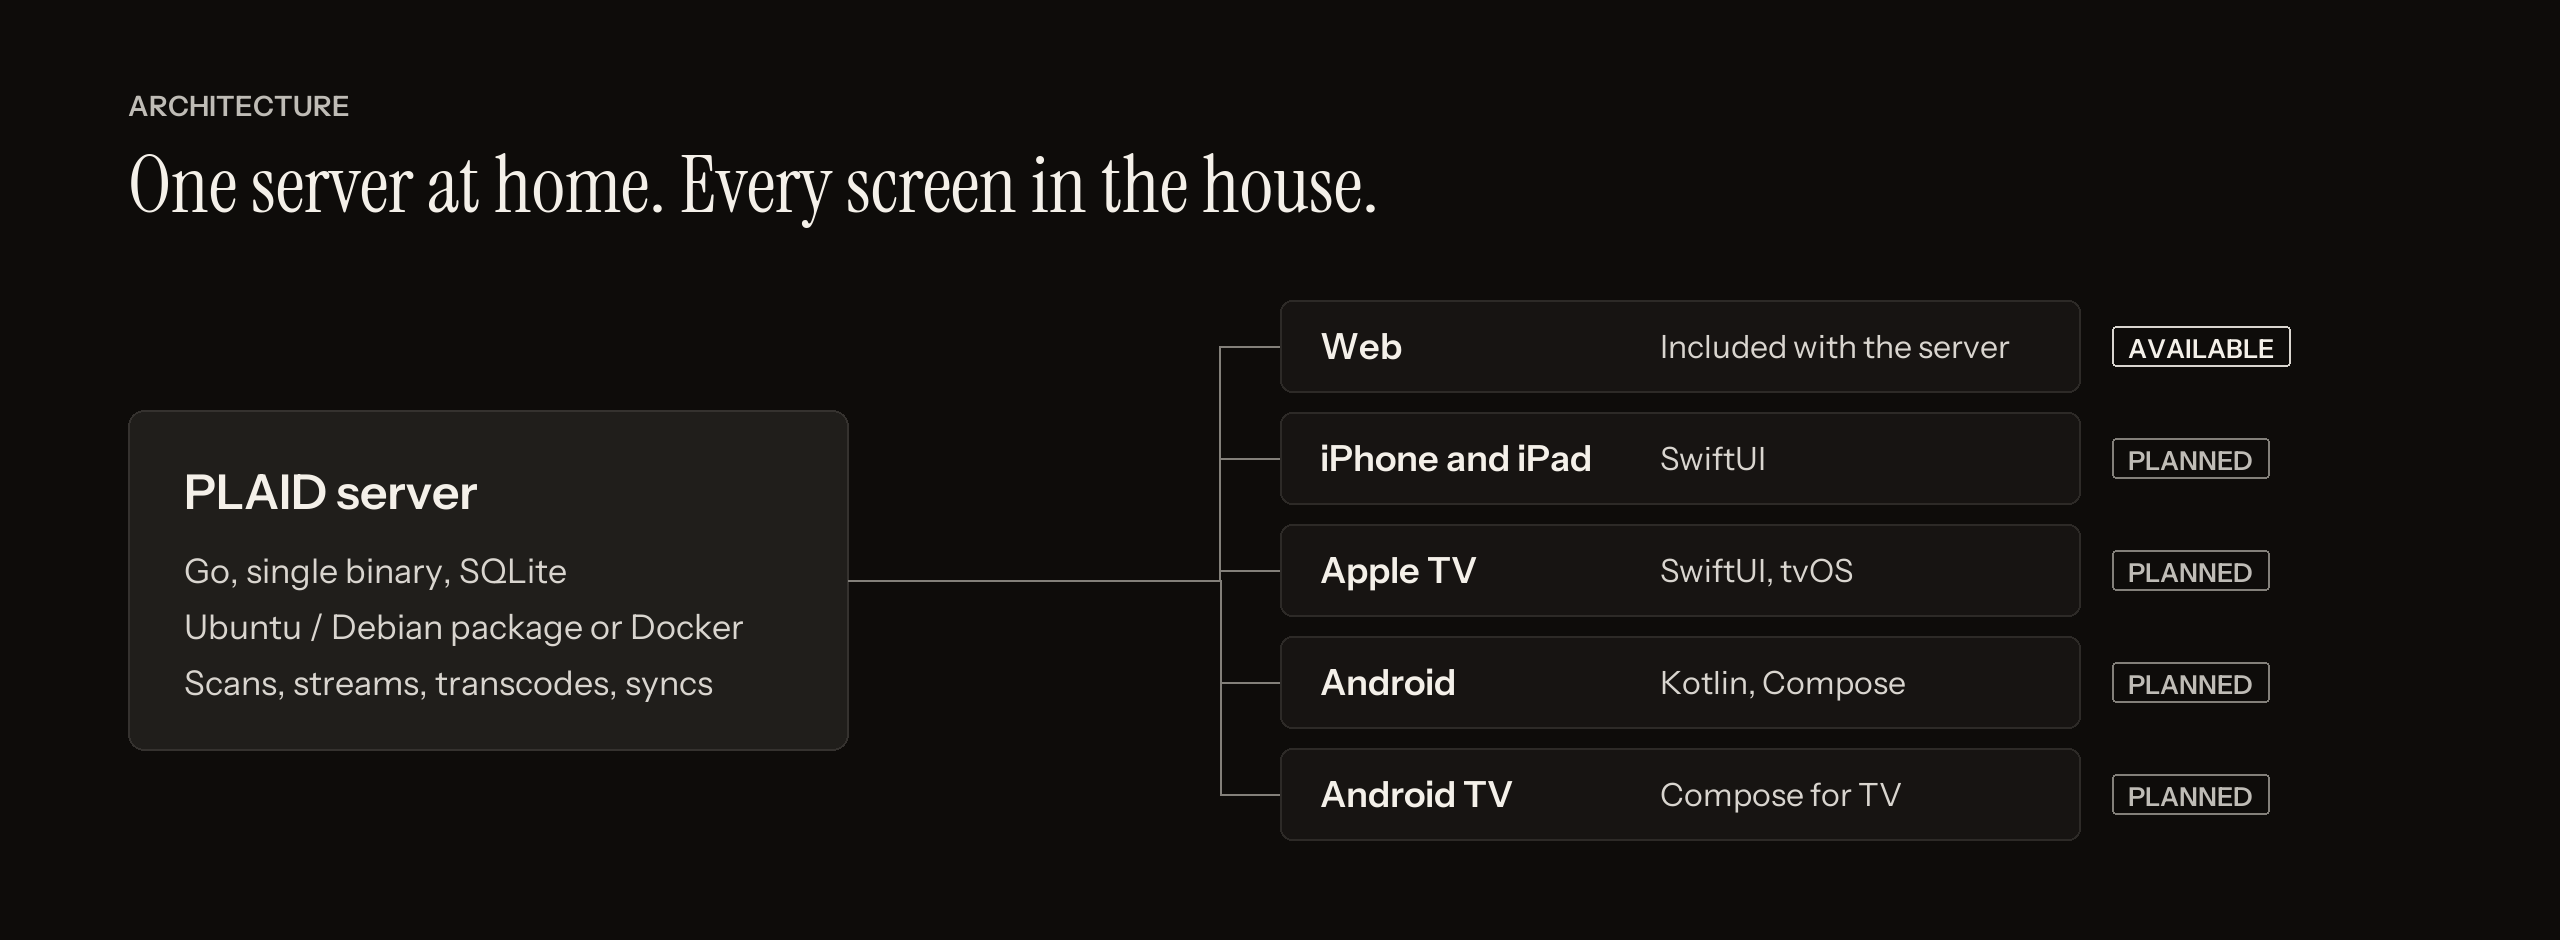
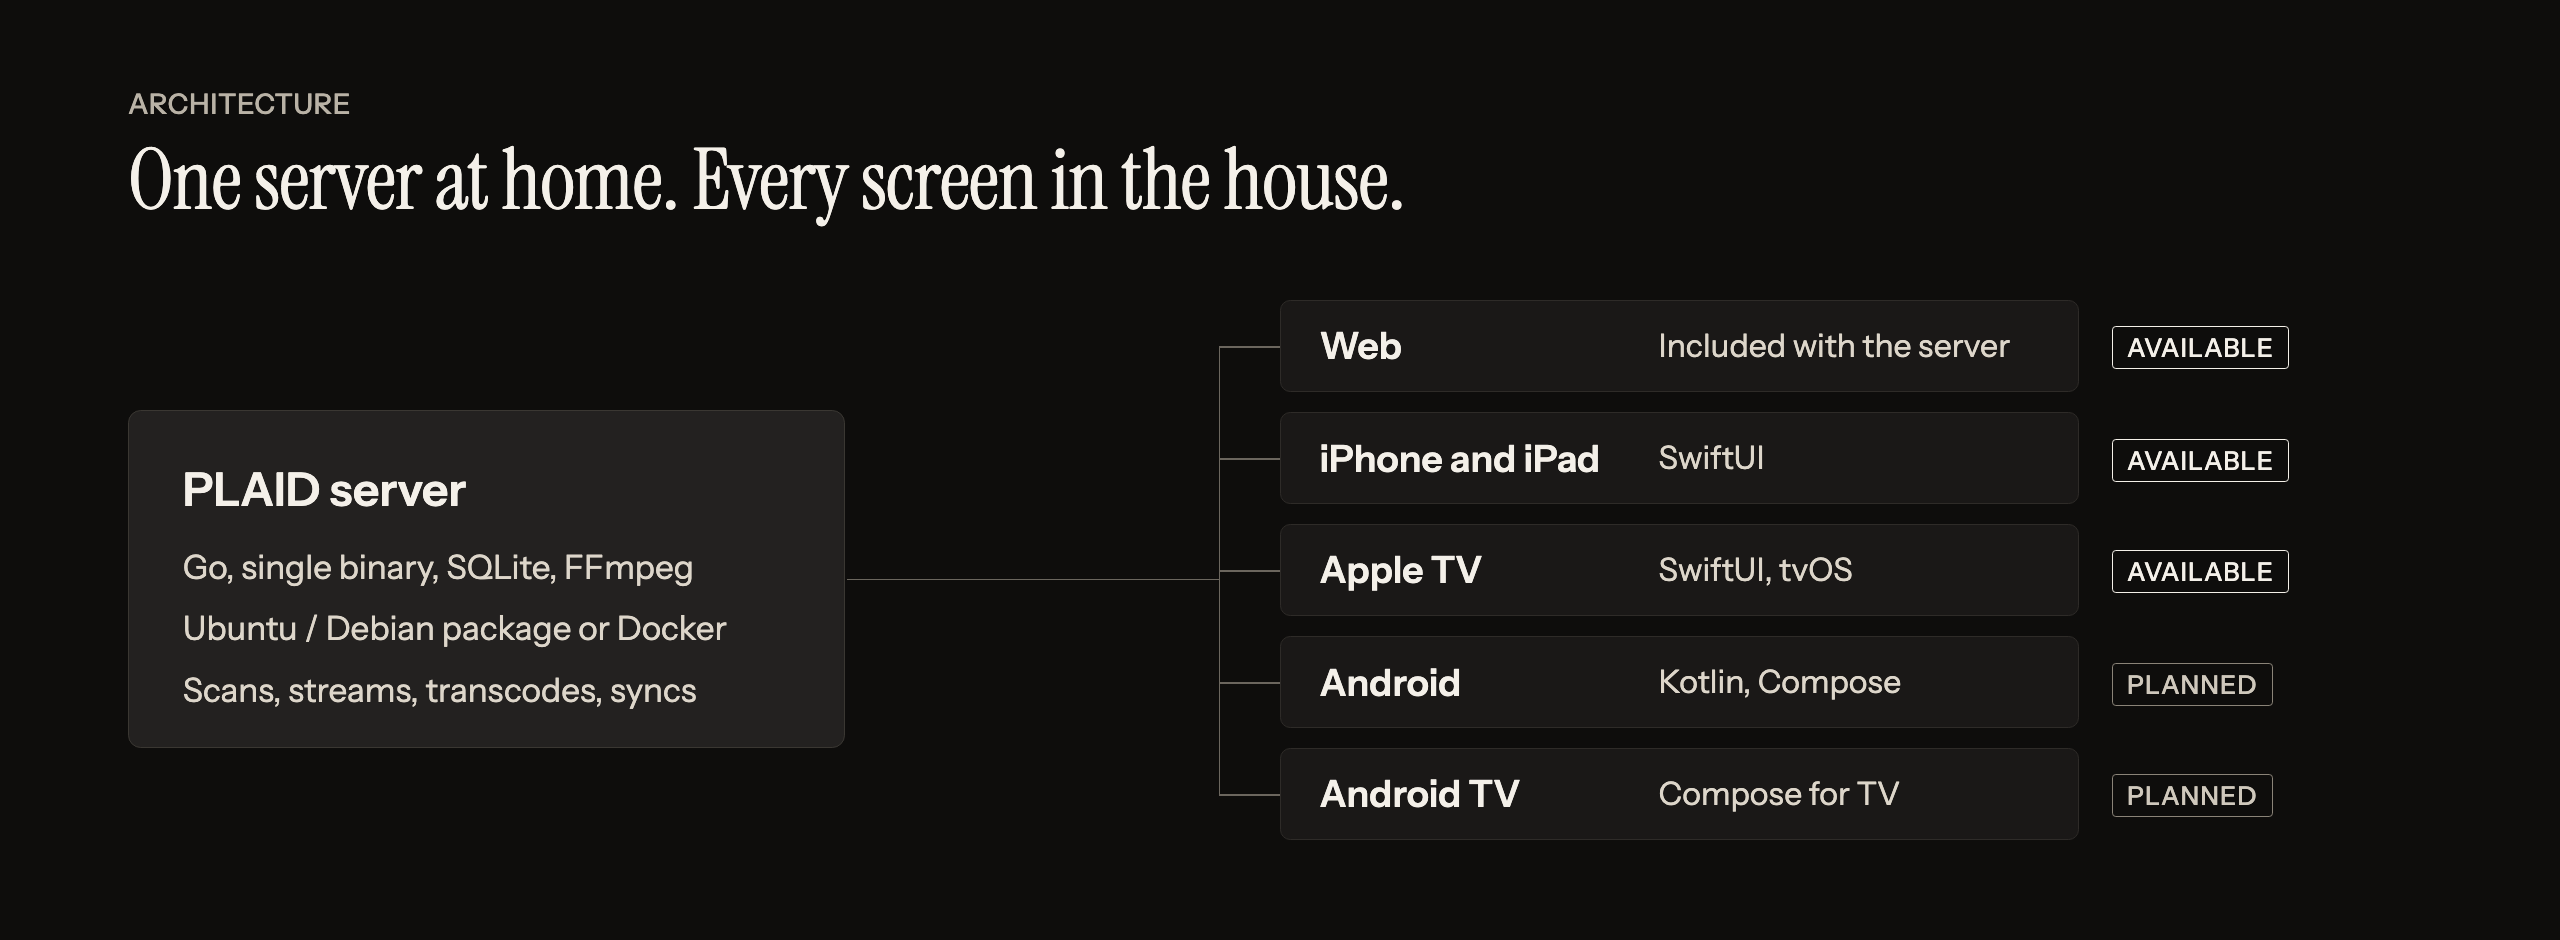
docs: README refresh with design screenshots [skip release]
Status, surfaces and roadmap now match main (v0.5.0). Screenshots
rendered from the PLAID design canvas, French boards shown in English.

diff --git a/README.md b/README.md
@@ -10,40 +10,72 @@
 
 PLAID is a self-hosted media server, an open alternative to Plex. It indexes the movies and shows on your disks and streams them to every screen in the house. Watching together, in the same room or miles apart, is built in rather than bolted on.
 
-> **Status: early development.** The server, its web app and the install packages are in place. Libraries, playback and the TV apps are next. Nothing to watch yet.
+> **Status: early, but you can watch.** The server scans your libraries, fetches metadata and artwork, and plays everything in the browser, on iPhone, iPad and Apple TV, at home or from anywhere. Plaid Party, watching together, landed in v0.5. Android is next. Expect rough edges and breaking changes before 1.0.
+>
+> The screens below come from the design files the apps are built from, shown with public-domain and Creative Commons films.
+
+<p align="center">
+  <img src="docs/assets/readme/detail.jpg" alt="The web app showing the Nosferatu (1922) title page: full-screen backdrop, Play and Mark as watched buttons, TMDB score, 1080p and 4K versions, English subtitles." width="100%">
+</p>
+
+## What it does
+
+- **Libraries that look after themselves.** Point PLAID at your folders. It scans them, matches each file on TMDB, pulls posters, backdrops and logos from TMDB and fanart.tv, and keeps up as files come and go. Anything it can't match waits in a list for you.
+- **Plays anything, the lightest way.** Direct Play when the device can take the file as is, an HLS remux when only the container is wrong, a transcode when it has to: on the GPU (VAAPI, Quick Sync, NVENC, Raspberry Pi V4L2) or in software, with HDR tone mapping. Seeking never waits for the transcode to catch up.
+- **Every screen.** A web app served by the server itself, plus native iPhone, iPad and Apple TV apps. Pair a TV by typing the code it shows.
+- **From anywhere, without a cloud account.** Turn on remote access and PLAID opens a port on your router (NAT-PMP or UPnP), gets its own `getplaid.direct` name and a Let's Encrypt certificate. getplaid.direct only finds your server: your video never goes through it.
+- **For the whole household.** Profiles with PINs and age limits, invitations, groups and per-library sharing, and an admin that tells you what's playing and what needs you.
 
 ## Watch together
 
-<img src="docs/assets/readme/plaid-party.png" alt="A Plaid Party: four people on Apple TV, web, Android and iPad, all at 1:12:48 in the same film." width="100%">
+<img src="docs/assets/readme/party.jpg" alt="A Plaid Party: Nosferatu plays on Apple TV with friends' reactions floating over the film, while the host's iPhone shows the remote, the chat and Mia's request to pause." width="100%">
 
-A **Plaid Party** keeps everyone on the same frame. The server holds the clock, every participant gets a stream suited to their device and connection (4K Direct Play on the living room TV, 720p on a phone on the train), and play, pause and seek stay in sync. Reactions, chat and pause requests come with it.
+A **Plaid Party** keeps everyone on the same frame. The server holds the clock, every participant gets a stream suited to their device and connection (4K Direct Play on the living room TV, 720p on a phone on the train), and play, pause and seek stay in sync. Chat, reactions and pause requests come with it, on the big screen and on the phone in your hand.
+
+<img src="docs/assets/readme/web-player.jpg" alt="The same party in a web browser: the player on the left, the four people in the party with their device and quality, and the chat on the right." width="100%">
+
+Friends without a PLAID account can join from a link in their browser.
 
 ## One server, every screen
 
-<img src="docs/assets/readme/architecture.png" alt="The PLAID server connects to the web app, available now, and to iPhone and iPad, Apple TV, Android and Android TV apps, all planned." width="100%">
+<img src="docs/assets/readme/architecture.png" alt="The PLAID server connects to the web app, the iPhone and iPad app and the Apple TV app, all available, and to Android and Android TV apps, planned." width="100%">
+
+<img src="docs/assets/readme/iphone-ipad.jpg" alt="The PLAID home on iPad and iPhone: Tears of Steel as the hero, then Continue watching with Big Buck Bunny, Caminandes, Elephants Dream and Nosferatu." width="100%">
+
+<img src="docs/assets/readme/apple-tv.jpg" alt="Apple TV during a Plaid Party: the credits of a Caminandes episode roll while a card counts down to the next episode, with three of four people ready." width="100%">
 
 | Surface | Stack | Status |
 |---|---|---|
-| Server | Go, single binary, SQLite, FFmpeg | In progress |
-| Web | React, served by the server | In progress |
-| iPhone, iPad, Apple TV | SwiftUI, one codebase | Planned |
+| Server | Go, single binary, SQLite, FFmpeg | Available |
+| Web | React, served by the server | Available |
+| iPhone, iPad, Apple TV | SwiftUI, one codebase | Available, build with Xcode (not on the App Store yet) |
 | Android, Android TV | Kotlin, Jetpack Compose | Planned |
+
+## Run it yourself, reach it from anywhere
+
+<img src="docs/assets/readme/remote-access.png" alt="The Remote access admin page: reachable from anywhere, a getplaid.direct link to share, a Let's Encrypt certificate, port 32501 opened by UPnP, and per-stream and upload limits." width="100%">
+
+Everything runs on your machine, down to a Raspberry Pi 4 or 5. The admin covers libraries, unmatched files, people and invitations, devices, transcoding, remote access and a list of problems with a fix next to each.
 
 ## Roadmap
 
 | Feature | Status |
 |---|---|
 | Foundations: API contract, CI, Docker, Ubuntu/Debian package | Done |
-| Design system | In progress |
-| Accounts and profiles | Next |
-| Libraries: scanning, matching, metadata and artwork | Next |
-| Playback: Direct Play, remux, hardware transcoding | Next |
-| Web: browsing, search, player | Planned |
-| Library sharing with friends | Planned |
-| Plaid Party | Planned |
-| Apple and Android apps | Planned |
+| Accounts, profiles and PINs, pairing a TV | Done |
+| Libraries: scanning, matching, metadata and artwork | Done |
+| Playback: Direct Play, HLS remux, software and hardware transcoding, HDR | Done |
+| Web: onboarding, administration, browsing, search, player | Done |
+| Remote access through getplaid.direct | Done |
+| Apple TV, iPhone and iPad apps | Done, polishing |
+| Plaid Party: watch together, in sync | New in v0.5 |
+| Library sharing, invitations and groups | Shipped, polishing |
+| Admin V2 and monitoring | Shipped, polishing |
+| Critic and audience scores on title pages | Shipped, polishing |
+| Android and Android TV apps | Planned |
+| Offline downloads, music, photos, Live TV | Later |
 
-The full list, with the intent and spec behind each feature, lives in [sdlc/roadmap.md](sdlc/roadmap.md).
+The full list, with the intent, spec and plan behind each feature, lives in [sdlc/roadmap.md](sdlc/roadmap.md).
 
 ## Install
 
